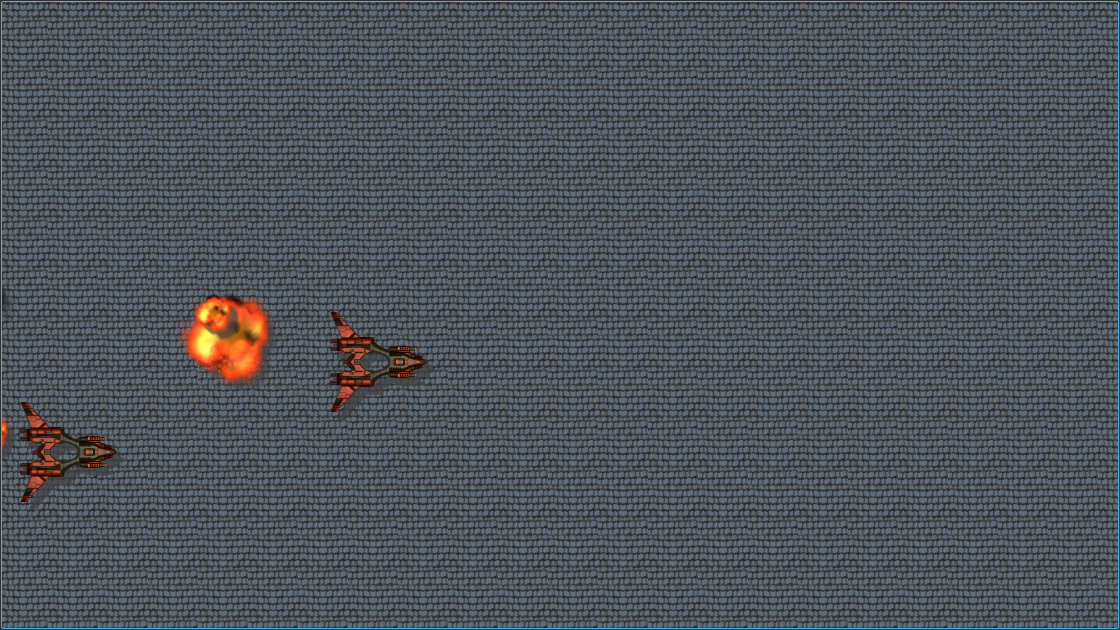
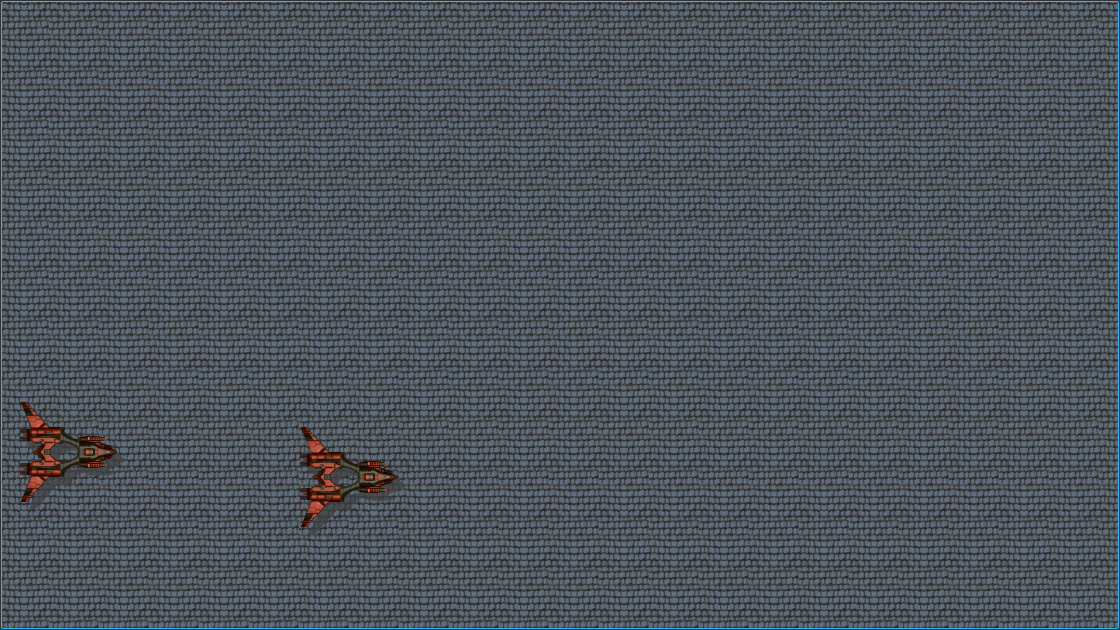
Project Update

diff --git a/Sources/Source Files/Game Objects/MyAlien.cpp b/Sources/Source Files/Game Objects/MyAlien.cpp
@@ -20,7 +20,7 @@ MyAlien::MyAlien() :
 		                                                                             Qt::SmoothTransformation));
 	}
 
-	vlc = new QPointF(0, 10);
+	vlc = new QPointF(5, 10);
 	tmr_id = startTimer(MyRes::aln_lsrdly);
 }
 
@@ -60,7 +60,7 @@ void MyAlien::game_unpaused() {
 	}
 }
 
-/*void MyAlien::updt_pos() {
+void MyAlien::updt() {
 	QPointF tplft(scene()->views().first()->viewport()->mapToParent(
 			scene()->views().first()->mapFromScene(mapToScene(boundingRect().topLeft()))));
 	QPointF bttmrght(scene()->views().first()->viewport()->mapToParent(
@@ -69,24 +69,6 @@ void MyAlien::game_unpaused() {
 	if ((tplft.y() + vlc->y() >= MyRes::y_offset && bttmrght.y() + vlc->y() <= vw_rct.height() - MyRes::y_offset) ||
 	    (tplft.y() + vlc->y() < MyRes::y_offset && vlc->y() > 0) ||
 	    ((bttmrght.y() + vlc->y() > vw_rct.height() - MyRes::y_offset) && vlc->y() < 0)) {
-		setPos(pos().x(), pos().y() + vlc->y());
-	}
-	else {
-		vlc->setY(vlc->y() * (-1));
-	}
-}*/
-
-void MyAlien::updt() {
-//	setPos(pos().x() + vlc->x(), pos().y() + vlc->y());
-//	updt_pos();
-	double tplft_y = scene()->views().first()->viewport()->mapToParent(
-			scene()->views().first()->mapFromScene(mapToScene(boundingRect().topLeft()))).y();
-	double bttmrght_y = scene()->views().first()->viewport()->mapToParent(
-			scene()->views().first()->mapFromScene(mapToScene(boundingRect().bottomRight()))).y();
-	double vw_rct_height = scene()->views().first()->viewport()->rect().height();
-	if ((tplft_y + vlc->y() >= MyRes::y_offset && bttmrght_y + vlc->y() <= vw_rct_height - MyRes::y_offset) ||
-	    (tplft_y + vlc->y() < MyRes::y_offset && vlc->y() > 0) ||
-	    ((bttmrght_y + vlc->y() > vw_rct_height - MyRes::y_offset) && vlc->y() < 0)) {
 		setPos(pos().x(), pos().y() + vlc->y());
 	}
 	else {

diff --git a/Sources/Source Files/Widgets/MyGame.cpp b/Sources/Source Files/Widgets/MyGame.cpp
@@ -31,11 +31,14 @@ MyGame::MyGame(QWidget *parent) :
 //
 	tmp1 = new MyAlien();
 	tmp1->setPos(1500, 50);
-	gscn->addItem(tmp1);
-
-//	tmp2 = new MyAsteroid();
+	gscn->addItem(tmp1);//	tmp2 = new MyAsteroid();
 //	tmp2->setPos(1000, 50);
 //	gscn->addItem(tmp2);
+
+
+	tmp2 = new MyAsteroid();
+	tmp2->setPos(1000, 50);
+	gscn->addItem(tmp2);
 
 //	tmp6 = new MyStar();
 //	tmp6->setPos(200, 100);

diff --git a/Sources/Source Files/Game Objects/MyAsteroid.cpp b/Sources/Source Files/Game Objects/MyAsteroid.cpp
@@ -9,7 +9,7 @@ MyAsteroid::MyAsteroid() :
 	astrd_num = rand() % MyRes::astrd_typcnt;
 	frm_num = 0;
 	setGraphicsEffect(new QGraphicsDropShadowEffect());
-	vlc = new QPointF(0, 0);
+	vlc = new QPointF(-10, 0);
 }
 
 MyAsteroid::~MyAsteroid() {

diff --git a/Sources/Headers/Game Objects/MyAlien.h b/Sources/Headers/Game Objects/MyAlien.h
@@ -30,8 +30,6 @@ public:
 
 	void change_speed();
 
-	void updt_pos();
-
 	void updt();
 
 	void ply_sf(QString &);
